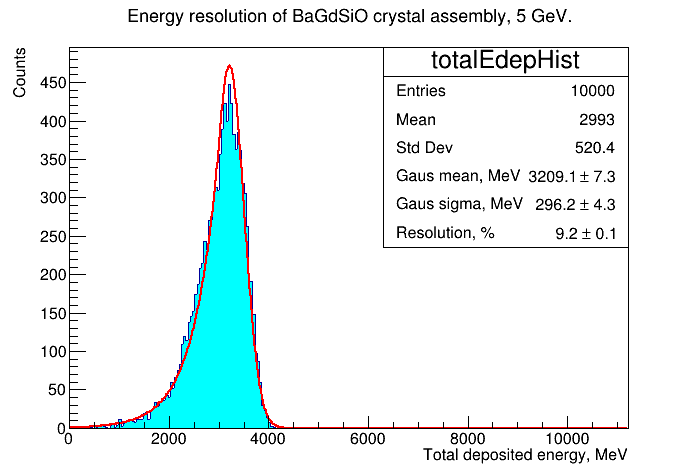
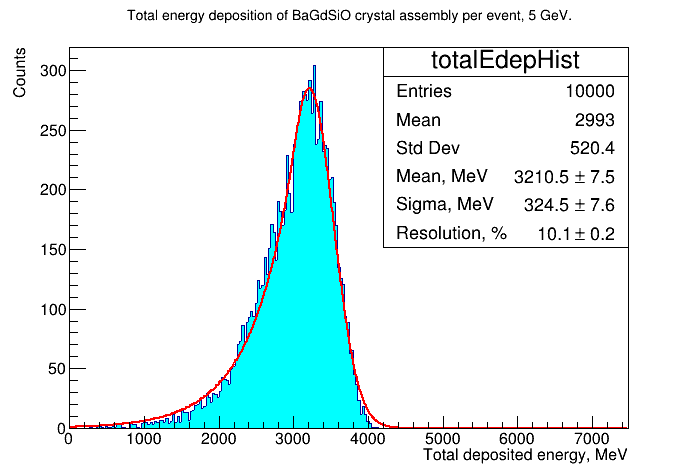
lol

diff --git a/glass_prototype/draw/energy-deposition/energyDeposition.cpp b/glass_prototype/draw/energy-deposition/energyDeposition.cpp
@@ -463,8 +463,8 @@ void plotEnergyResolution(const char* fileName){
   }
 
   // Instantiate histogram for total energy deposition
-  TString title = TString::Format("Energy resolution of %s crystal assembly, %.0f GeV.", crystalMaterial, particleEnergy/1E3);
-  TH1D* edepHist = new TH1D("totalEdepHist", title.Data(), 250, 0, firstEdep*3);
+  TString title = TString::Format("Total energy deposition of %s crystal assembly per event, %.0f GeV.", crystalMaterial, particleEnergy/1E3);
+  TH1D* edepHist = new TH1D("totalEdepHist", title.Data(), 250, 0, firstEdep*2);
   edepHist->GetYaxis()->SetTitle("Counts");
   edepHist->GetXaxis()->SetTitle("Total deposited energy, MeV");
 
@@ -565,22 +565,7 @@ void plotEnergyResolution(const char* fileName){
    // ROOT::Math::MinimizerOptions::SetDefaultTolerance(1E-6); // Default: 1.E-2
    // ROOT::Math::MinimizerOptions::SetDefaultMaxFunctionCalls(100000);
 
-  edepHist->Fit(fBall);
-
-//  // Create data
-//  ROOT::Fit::DataOptions opt;
-//  opt.fIntegral = true;
-//  ROOT::Fit::BinData data(opt);
-//  ROOT::Fit::FillData(data, edepHist);
-//
-//  // Creating the fit model
-//  ROOT::Math::WrappedMultiTF1 fitFunction(fBall, fBall->GetNdim());
-//  ROOT::Fit::Fitter fitter;
-//  fitter.SetFunction(fitFunction, false);
-//
-//  // Fit Data
-//  fitter.LikelihoodFit(data);
-
+  edepHist->Fit(fBall, "W");
 
   Double_t m = edepHist->GetFunction("fBall")->GetParameter(2); // mean
   Double_t Dm = edepHist->GetFunction("fBall")->GetParError(2); // mean error
@@ -593,12 +578,11 @@ void plotEnergyResolution(const char* fileName){
   // Plot histogram and fit
 
   edepHist->Draw();
-//  fBall->Draw();
 
   edepHist->SetFillColor(kCyan);
-  TString meanString = TString::Format("Gaus mean, MeV = %.1f #pm %.1f", m, Dm);
+  TString meanString = TString::Format("Mean, MeV = %.1f #pm %.1f", m, Dm);
   addTextToStats(canvas, meanString.Data());
-  TString sigmaString = TString::Format("Gaus sigma, MeV = %.1f #pm %.1f", s, Ds);
+  TString sigmaString = TString::Format("Sigma, MeV = %.1f #pm %.1f", s, Ds);
   addTextToStats(canvas, sigmaString.Data());
   TString resolutionString = TString::Format("Resolution, %% = %.1f #pm %.1f", r, Dr);
   addTextToStats(canvas, resolutionString.Data());
@@ -607,40 +591,6 @@ void plotEnergyResolution(const char* fileName){
   // Save canvas
   TString* fileNameOnly = removeFileExtension(fileName);
   canvas->SaveAs((*fileNameOnly+"-eres.png").Data());
-
-/*
-  TF1* fBall = new TF1("fBall", fobj, -10, 4, 4);    // create TF1 class.
-
-
-
-  fBall->SetParName(0, "a");
-  fBall->SetParameter(0, 1);
-  fBall->SetParLimits(0, 0, 1E3);
-
-  fBall->SetParName(1, "n");
-  fBall->SetParameter(1, 2);
-  fBall->SetParLimits(1, 1.1, 1E3); // n > 1
-
-  fBall->SetParName(2, "mean");
-  fBall->SetParameter(2, edepHist->GetBinCenter(edepHist->GetMaximumBin()));
-  fBall->SetParLimits(2, edepHist->GetXaxis()->GetXmin(), edepHist->GetXaxis()->GetXmax());
-
-  fBall->SetParName(3, "sigma");
-  fBall->SetParameter(3, 200);
-  fBall->SetParLimits(3, 0, 1000);
-
-  edepHist->Fit(fBall);
-
-  Double_t m = fBall->GetParameter(2); // mean
-  Double_t Dm = fBall->GetParError(2); // mean error
-  Double_t s = fBall->GetParameter(3); // sigma
-  Double_t Ds = fBall->GetParError(3); // sigma error
-
-  Double_t r = s/m*100;  // Resolution
-  Double_t Dr = 100*TMath::Sqrt(TMath::Power(1/m*Ds,2)+TMath::Power(s/m/m*Dm,2)); // Indirect error
-*/
-  // TCanvas* tempCanvas = new TCanvas("tempCanvas");
-  // fBall->Draw();
 }
 
 
